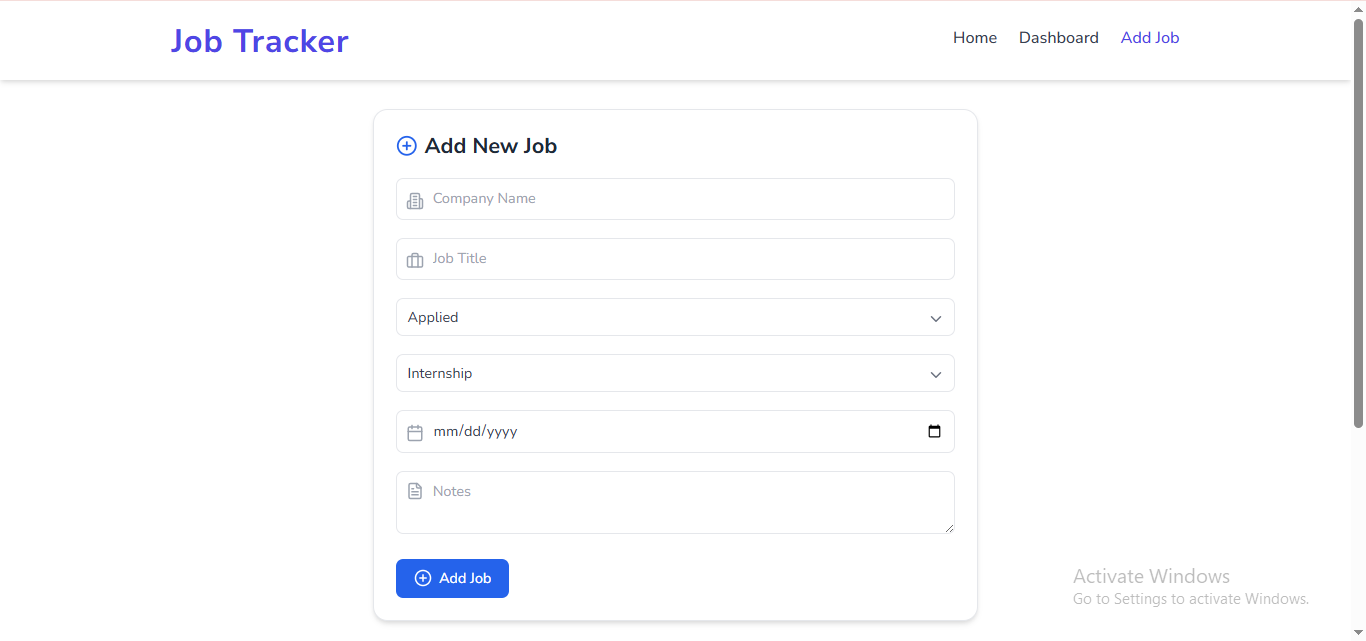
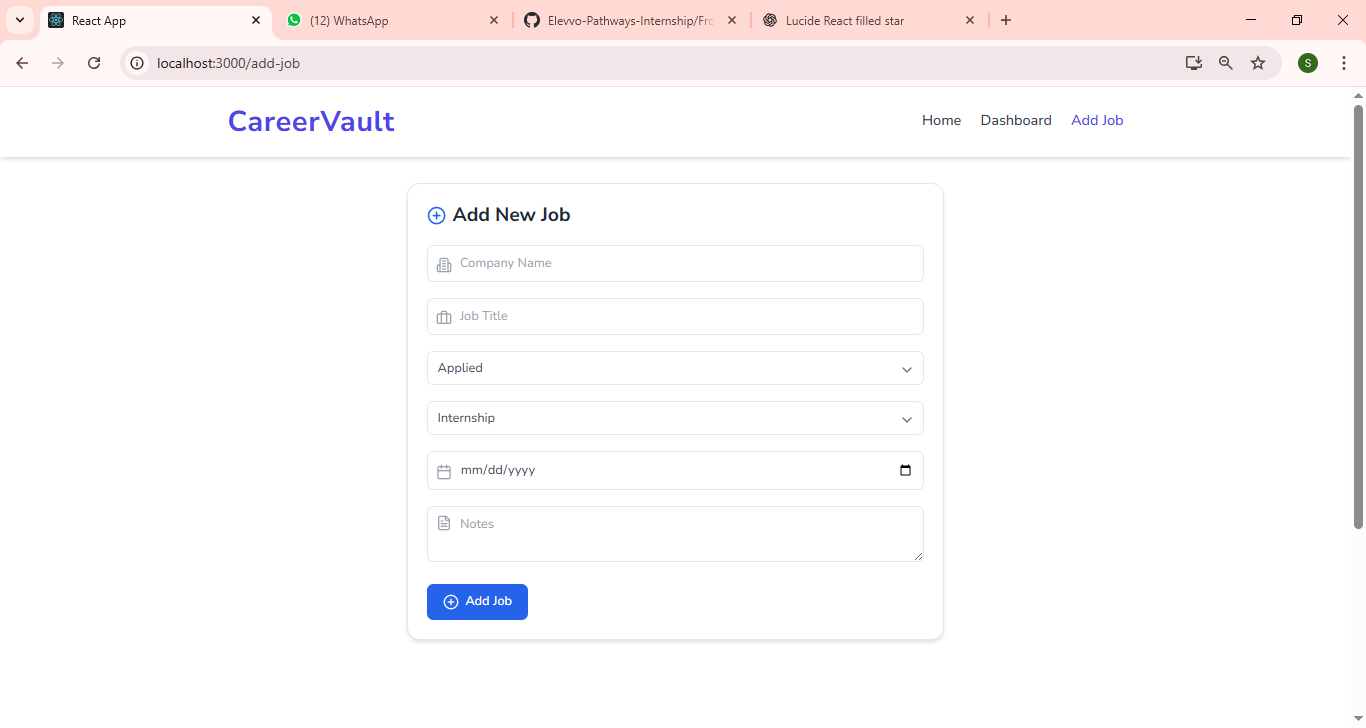
updated

diff --git a/Frontend-Web-Development/Industry-Level/job-application-tracker/src/pages/Dashboard.jsx b/Frontend-Web-Development/Industry-Level/job-application-tracker/src/pages/Dashboard.jsx
@@ -3,6 +3,7 @@ import JobItem from "../components/JobItem";
 import { useState } from "react";
 import { Briefcase, Search, ChevronDown } from "lucide-react";
 import { motion } from "framer-motion";
+import { Star } from "lucide-react";
 
 export default function Dashboard() {
   const jobs = useSelector((state) => state.jobs.jobs);
@@ -91,11 +92,13 @@ export default function Dashboard() {
           {/* Favorites Toggle */}
           <button
             onClick={() => setShowFavorites(!showFavorites)}
-            className={`px-3 md:py-2 py-1 rounded-md font-medium transition-colors duration-200 md:mr-0 ${
+            className={`flex items-center gap-1 px-3 md:py-2 py-1 rounded-md font-medium transition-colors duration-200 ${
               showFavorites ? "bg-yellow-400 text-white" : "bg-gray-100 text-gray-700 hover:bg-gray-300"
             }`}
           >
-            ⭐ Favorites
+            <Star className={`w-4 h-4 ${
+              showFavorites ? "text-white" : "text-yellow-500 fill-yellow-500"
+            }`} /> Favorites
           </button>
         </motion.div>
       </motion.div>

diff --git a/Frontend-Web-Development/Level-3/weather-dashboard/src/WeatherDashboard.jsx b/Frontend-Web-Development/Level-3/weather-dashboard/src/WeatherDashboard.jsx
@@ -89,7 +89,7 @@ export default function WeatherDashboard() {
 
   return (
     <div className={`min-h-screen bg-gray-100 flex flex-col items-center md:p-6 p-4 w-[100vw] overflow-hidden ${enabled? "dark-body":"light-body"}`}>
-      <h1 className={`text-2xl lg:text-5xl md:text-4xl font-bold mb-6 mt-3 main-heading ${enabled?"text-white":"text-gray-400"}`}>
+      <h1 className={`text-2xl lg:text-5xl md:text-4xl font-bold mb-6 mt-3 main-heading ${enabled?"text-white":"text-gray-500"}`}>
         🌦 Real-Time Weather Dashboard
       </h1>
 

diff --git a/Frontend-Web-Development/Level-3/weather-dashboard/src/components/SearchBar.jsx b/Frontend-Web-Development/Level-3/weather-dashboard/src/components/SearchBar.jsx
@@ -10,7 +10,7 @@ export default function SearchBar({ city, setCity, onSearch, enabled }) {
       />
       <button
         onClick={onSearch}
-        className={`button px-4 py-2 font-bold border border-[2px] transition duration-1 hover:text-white rounded-md ml-1 ${enabled?"dark-button":"light-button"}`}
+        className={`button px-4 py-2 font-bold border border-[2px] transition duration-1 hover:text-white rounded-md ml-1 text-white ${enabled?"dark-button":"light-button"}`}
       >
         Search
       </button>

diff --git a/Frontend-Web-Development/Level-3/weather-dashboard/src/components/Toggle.jsx b/Frontend-Web-Development/Level-3/weather-dashboard/src/components/Toggle.jsx
@@ -11,7 +11,7 @@ export default function Toggle({changeEnabled, enabled}) {
       >
         <span
           className={`inline-block md:h-6 h-4 md:w-6 w-4 transform rounded-full shadow-md transition-transform duration-300 
-          ${enabled ? "md:translate-x-7 translate-x-6 bg-gray-700" : "translate-x-1 bg-white"}`}
+          ${enabled ? "md:translate-x-7 translate-x-6 toggle-dark-circle" : "translate-x-1 bg-white"}`}
         />
       </button>
       <span className="ml-3 md:text-lg text-md text-gray-200">

diff --git a/Frontend-Web-Development/Industry-Level/job-application-tracker/src/components/Header.jsx b/Frontend-Web-Development/Industry-Level/job-application-tracker/src/components/Header.jsx
@@ -17,7 +17,7 @@ export default function Header() {
       <div className="max-w-6xl mx-auto px-4 py-3 flex justify-between items-center">
         {/* Title */}
         <h1 className="text-2xl md:text-4xl font-bold tracking-wide text-indigo-600">
-          <Link to={"/"}>Job Tracker</Link>
+          <Link to={"/"}>CareerVault</Link>
         </h1>
 
         {/* Desktop Navigation */}

diff --git a/Frontend-Web-Development/Industry-Level/job-application-tracker/public/index.html b/Frontend-Web-Development/Industry-Level/job-application-tracker/public/index.html
@@ -36,7 +36,7 @@
       href="https://fonts.googleapis.com/css2?family=Nunito+Sans:ital,opsz,wght@0,6..12,200..1000;1,6..12,200..1000&display=swap"
       rel="stylesheet"
     />
-    <title>React App</title>
+    <title>CareerVault</title>
   </head>
   <body>
     <noscript>You need to enable JavaScript to run this app.</noscript>

diff --git a/Frontend-Web-Development/Level-3/weather-dashboard/src/index.css b/Frontend-Web-Development/Level-3/weather-dashboard/src/index.css
@@ -82,6 +82,10 @@ code {
   scale: 1;
 }
 
+.toggle-dark-circle{
+  background-color: #414141;
+}
+
 .dark-input {
   background-color: #414141;
   color: white;
